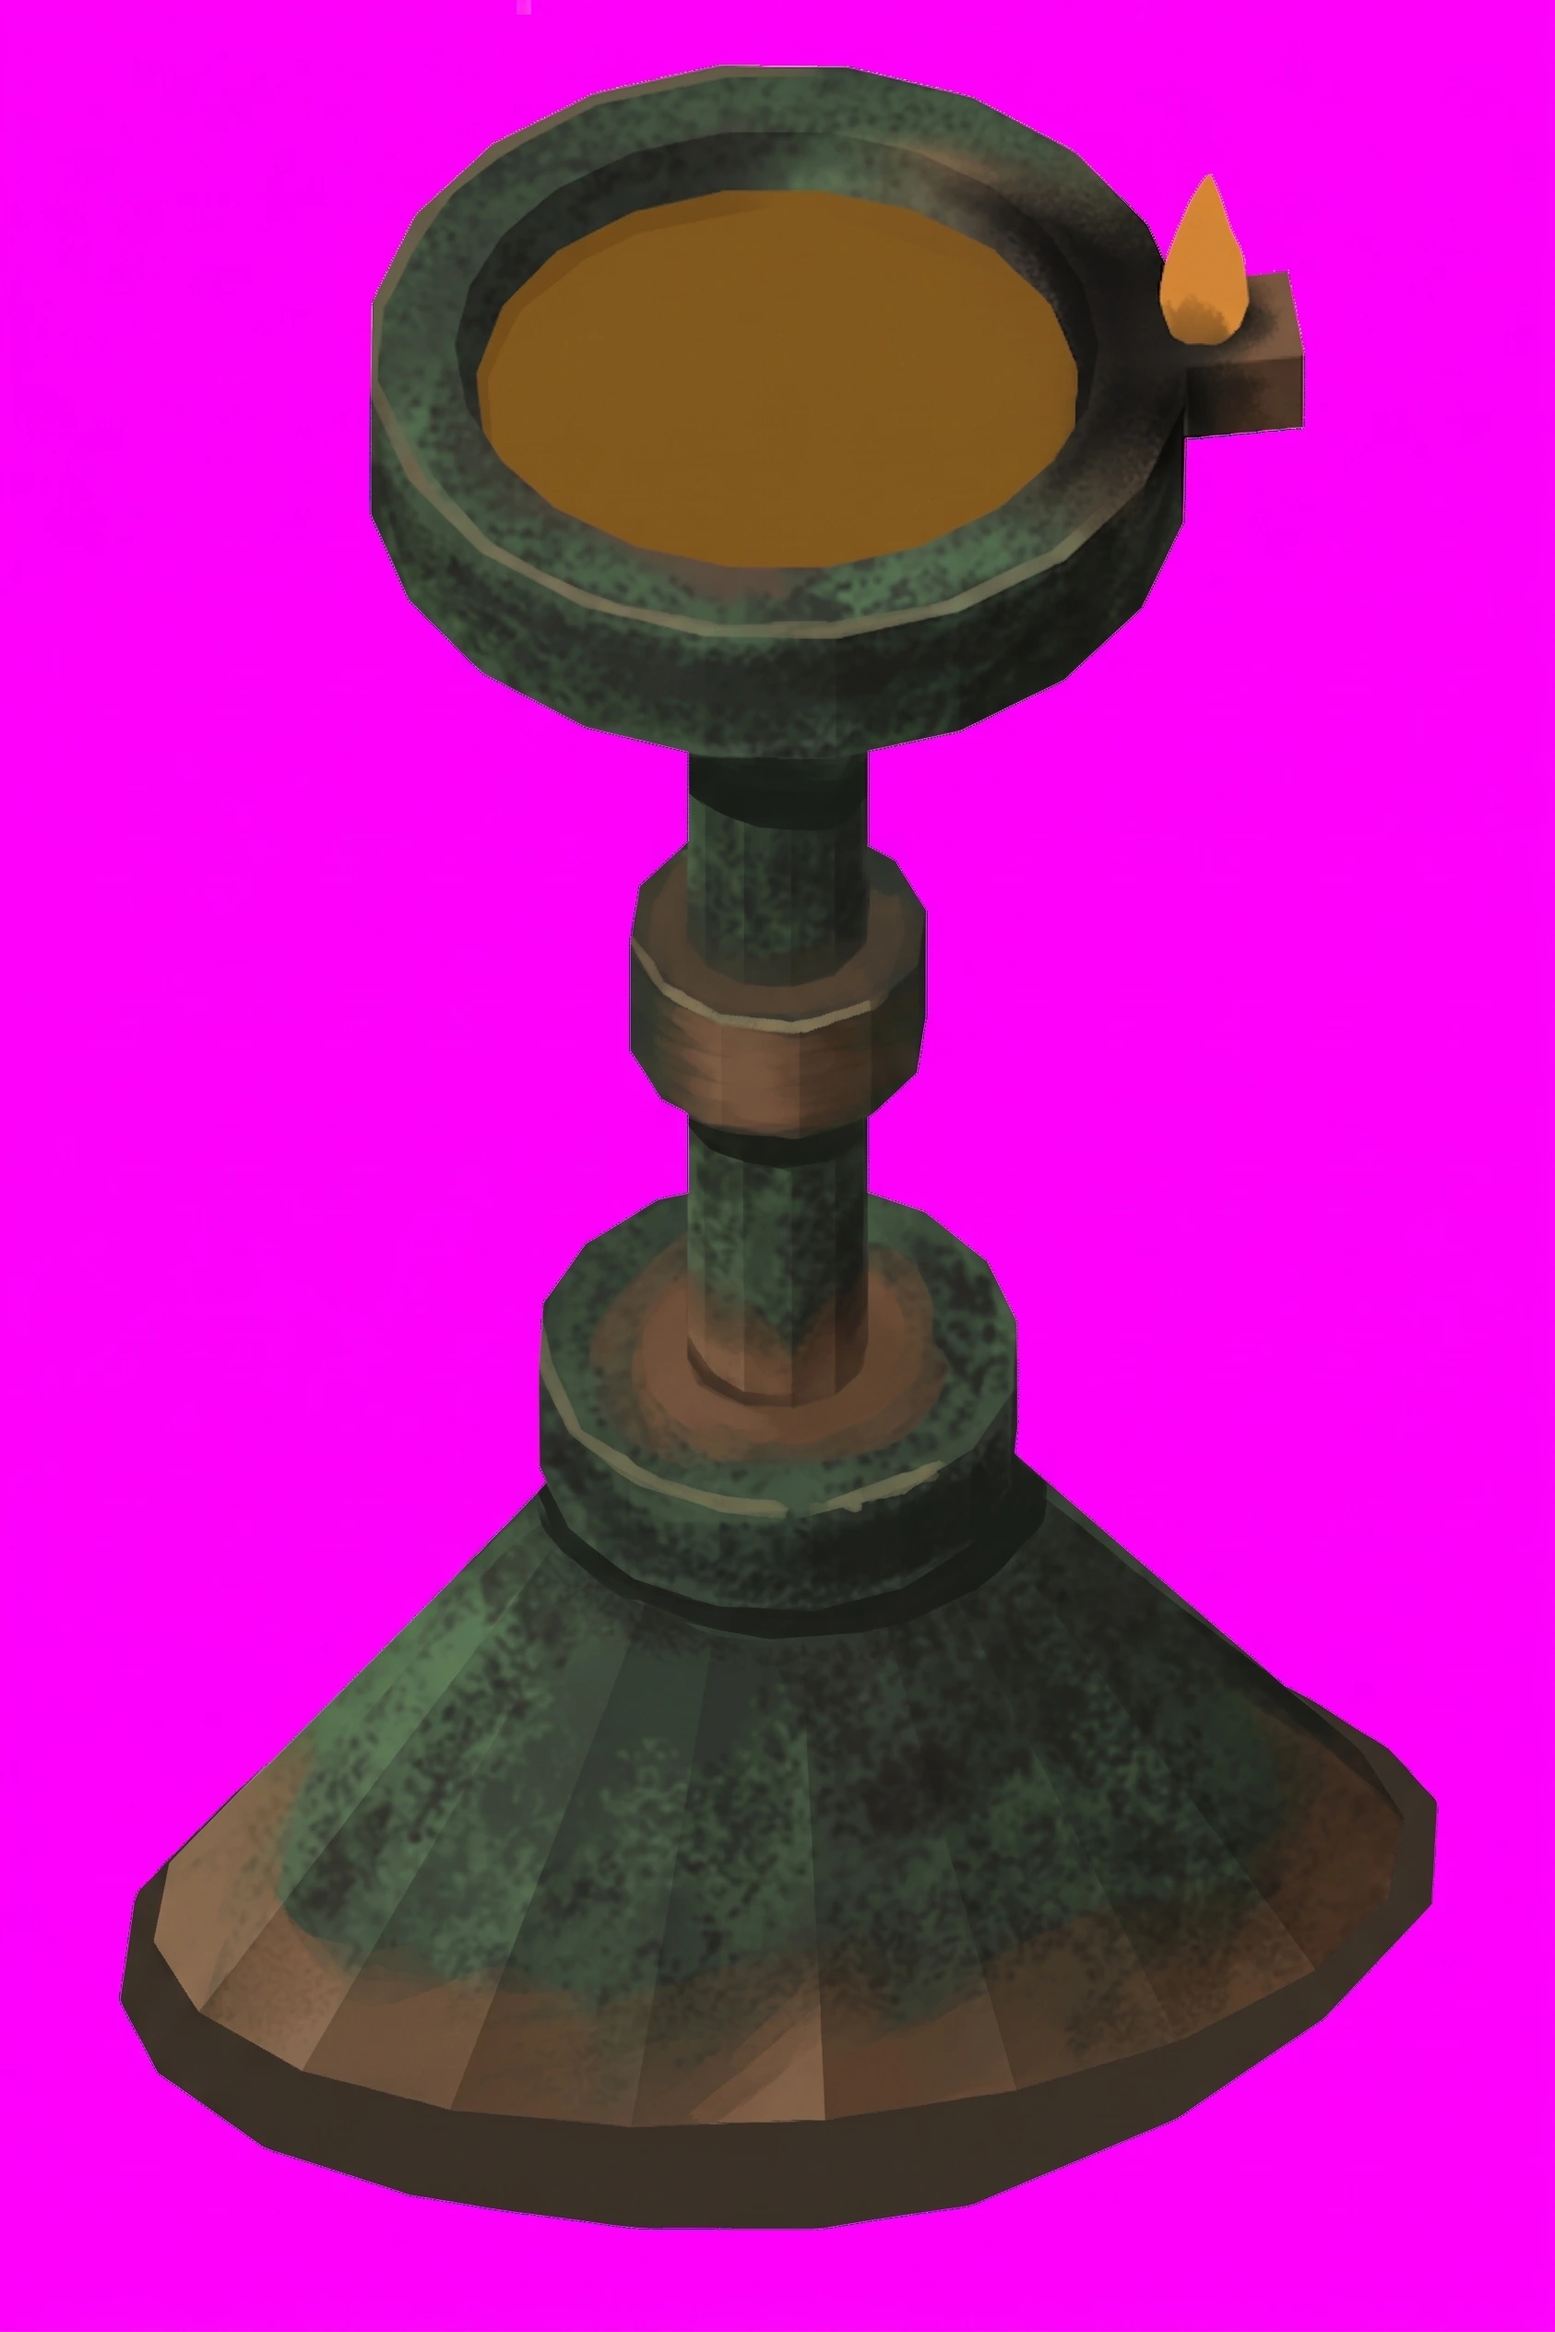
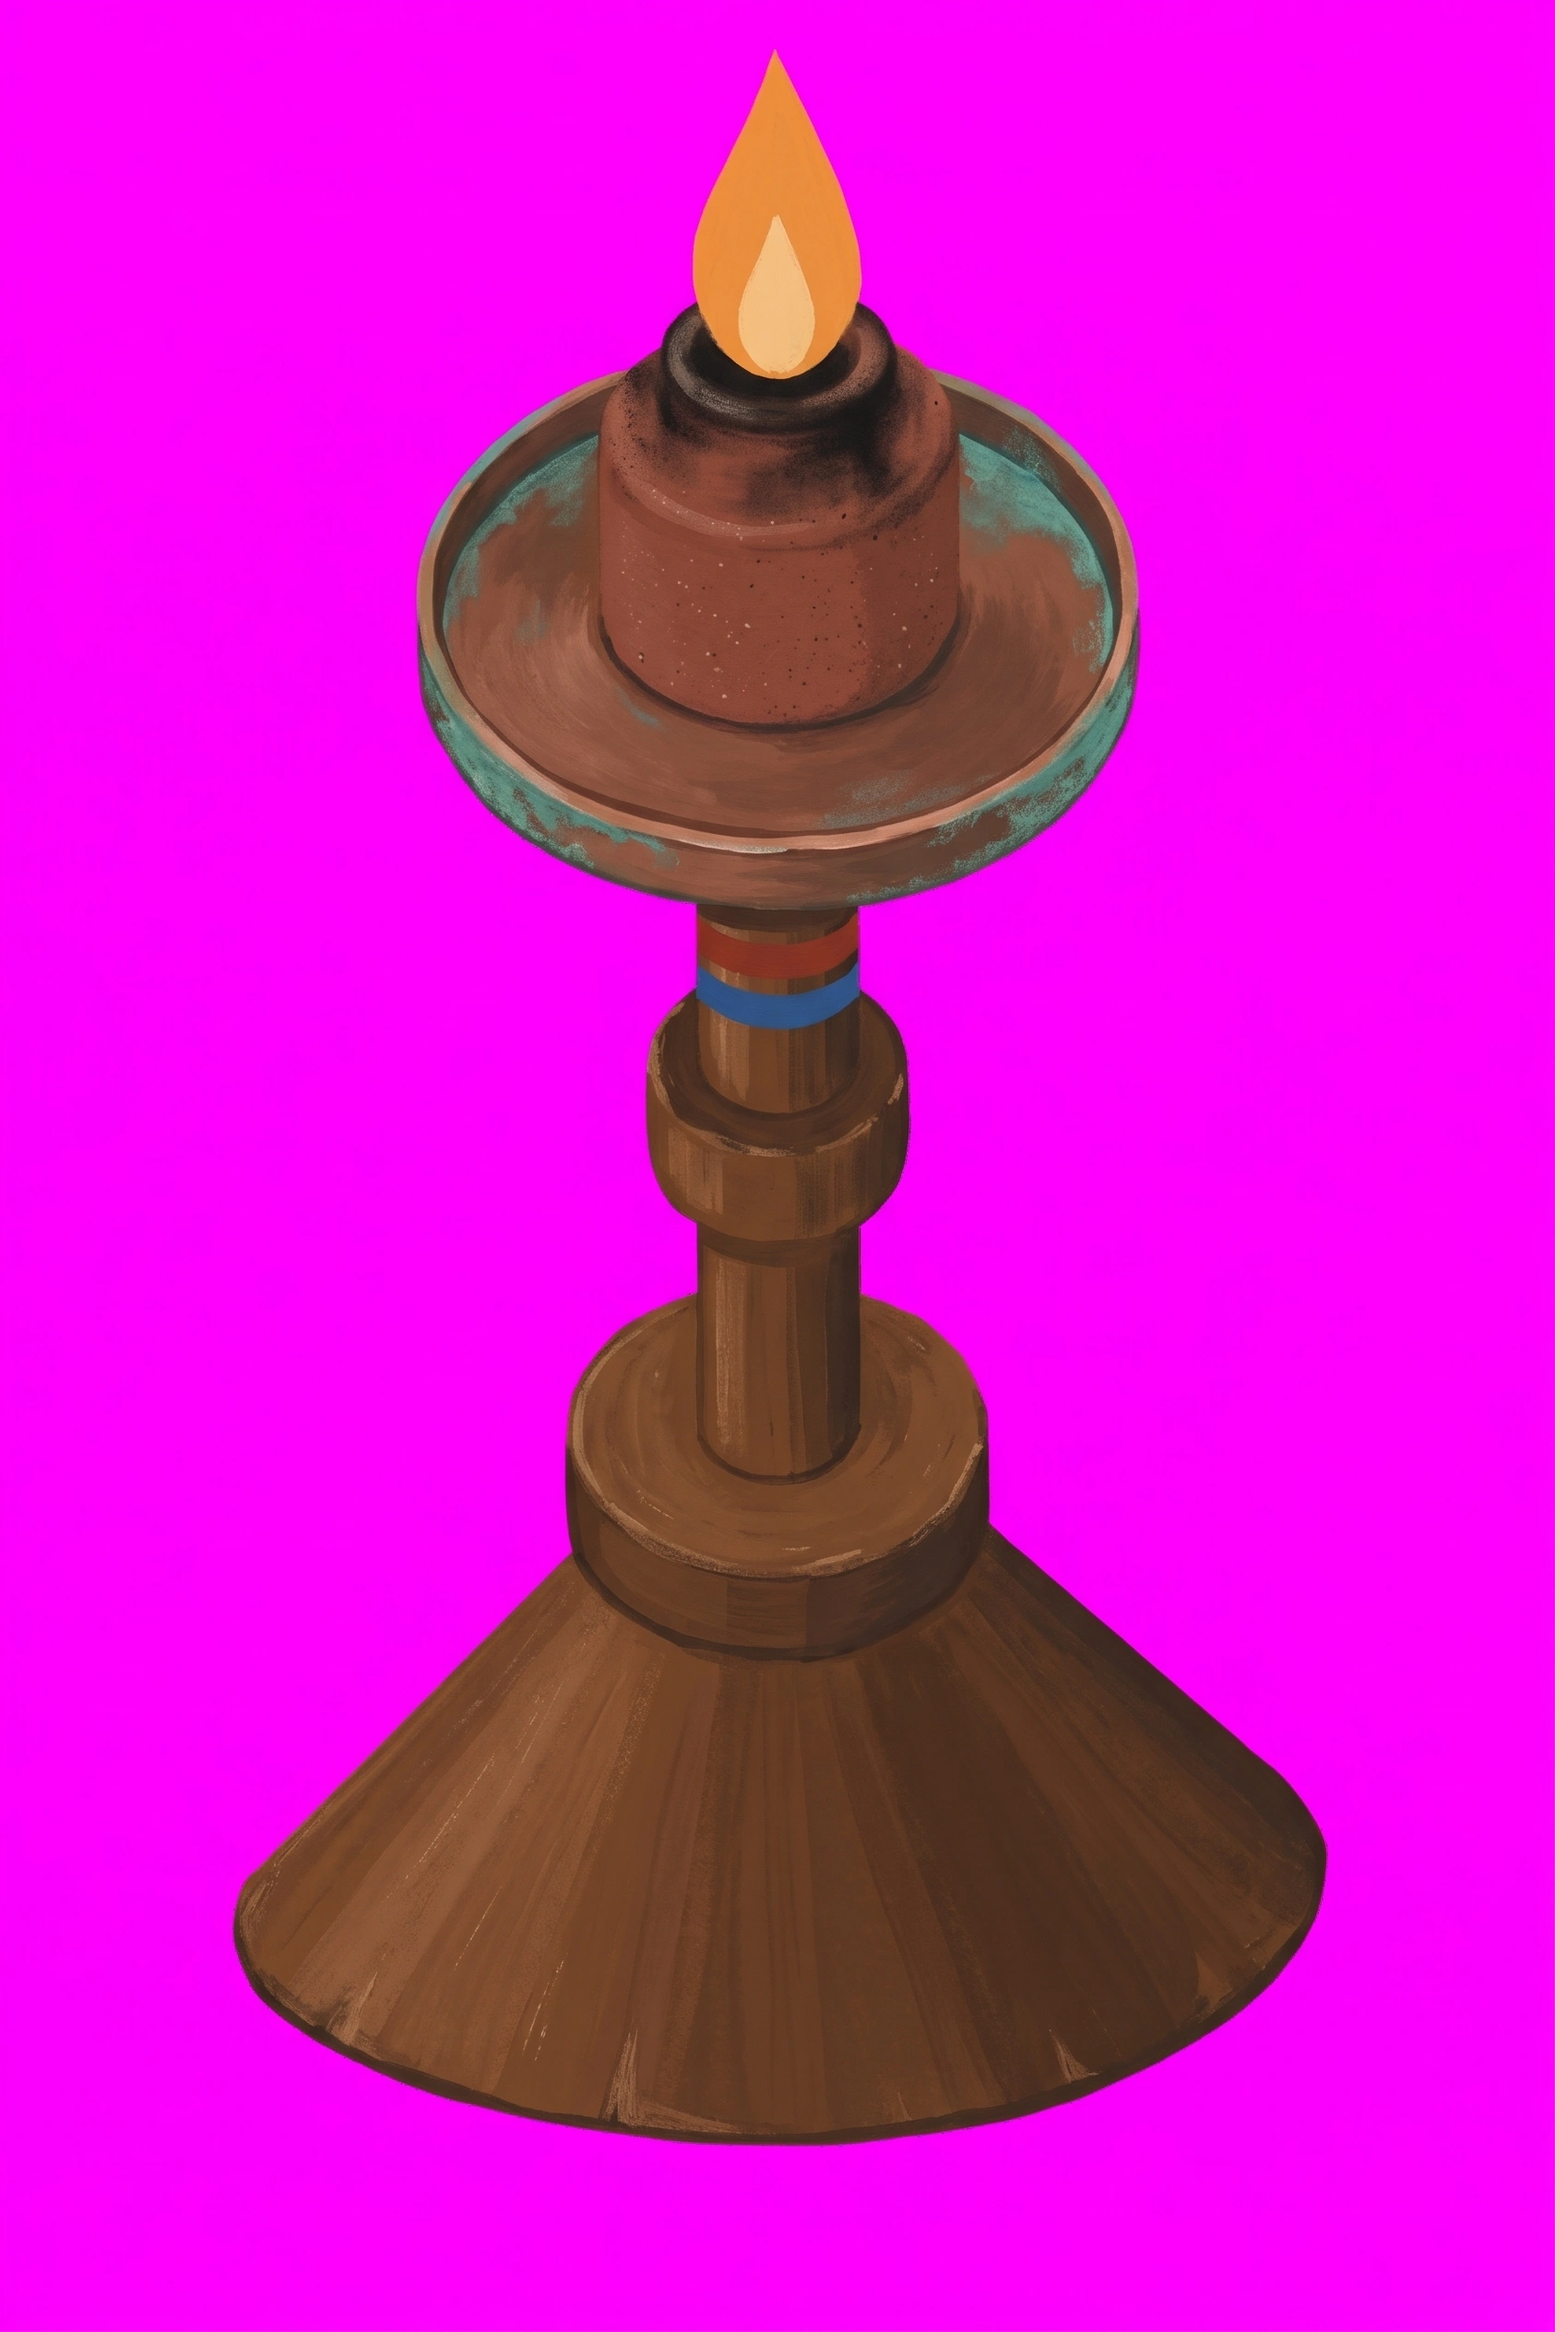
art: junior lamp stand, lit
Claude-Session: https://claude.ai/code/session_01F6g2diRzQCzQwEf9zsEEGH

diff --git a/docs/instructions/repaint-queue.md b/docs/instructions/repaint-queue.md
@@ -483,7 +483,7 @@ Even lighting left to right, no hotspot, no vignette.
 
 ---
 
-## Nobleman — twenty-nine
+## Nobleman — twenty-eight
 
 The nobleman's existing props, repainted for the rank's new light orange floor. Each is its own thing
 first: cedar is cedar, linen is linen, pottery is pottery, painted in red ochre, Egyptian blue and leaf
@@ -506,40 +506,6 @@ The last nine are the house's own kinds, new with its activities ([themed-rooms.
 § Junior): each has a primitive of its own in `renderProp.py` and a guarded block in `art/rebuild.sh`. The
 banquet table and the bed are two cells across, so their frame is landscape three by two; the harp and the
 potted tree stand a cell taller, so theirs is portrait two by five.
-
-### `junior/lamp` — a cedar lamp stand
-
-**Re-roll:** the rank's palette moved (2026-11-03, `Topology/Palette moodboard`). Repainted against the new light orange floor, in its own material's colours; copper only as a trim.
-
-**Attach:**
-
-1. `~/tile-previews/lamp-junior.png` — the scaffold
-2. `~/tile-previews/junior-plain.png` — the material reference
-
-```
-A wall-less product shot of a single object, painted in flat matte gouache, no background, on pure magenta #FF00FF. Portrait, two units wide by three tall, exactly as the reference. Do not re-compose it into a square. Paint over the reference image itself.
-
-The object: a LAMP STAND. The tall upright is the STAND; the foot is its BASE; the wide flat disc at the
-top is a DRIP-TRAY; the small round pot standing in the middle of it is the oil LAMP; the teardrop rising
-from the centre of the lamp's top is its FLAME, burning straight up out of the lamp.
-
-The stand is turned cedar #6b4226, oiled, #4a2c1a in shade, with a painted ring in red ochre #8a3a2a and
-Egyptian blue #2a5a9a near the top. The drip-tray is thin copper #8a4022, gone verdigris #4f9a86 at its
-edge. The lamp is red-brown fired pottery #8c4a36, sooted black round its lip. The flame is warm orange
-#e8913a with a pale core #f6c86a, the brightest thing on the whole object; no glow and no rays round it.
-
-Keep every edge, every proportion and every silhouette exactly as in the reference image — do not move, resize, straighten, add, remove or restyle any part of it, and do not change the angle it stands at. Paint only material and wear.
-
-No highlights, no gloss, no rim light, no ground plane, no reflections. Matte throughout, evenly lit, crisp and clean. Nobleman's house: orange sandstone, painted plaster, cedar, linen, reed and pottery, each in its OWN colours so it reads at a glance as what it is. Copper is an accent only — a rim, a band, a hasp, gone verdigris green at the edges — never a tint over the whole object.
-```
-
-Then, once the return is in `~/Downloads`:
-
-```sh
-scaffold lamp --contents=vessel --spin=8 --colour=#6b4226 --colour-metal=#6b4226 --colour-pottery=#8c4a36 --floor=#e2a86f
-yarn import-tile art/masters/props/junior/lamp.webp --tier=junior --name=lamp --slot=prop \
-  --filter=smooth --mask="$OBJ" --seat="$SHADOW"
-```
 
 ### `junior/chestProp` — a sealed cedar chest with a painted lid
 
